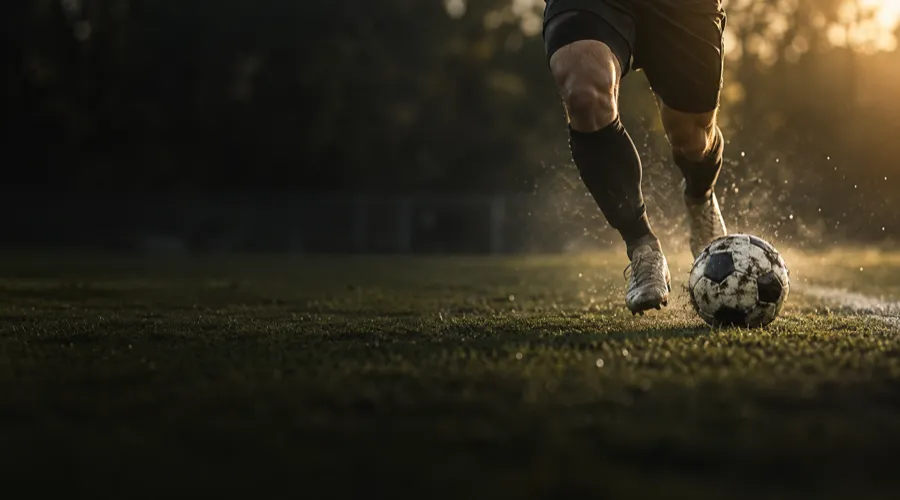
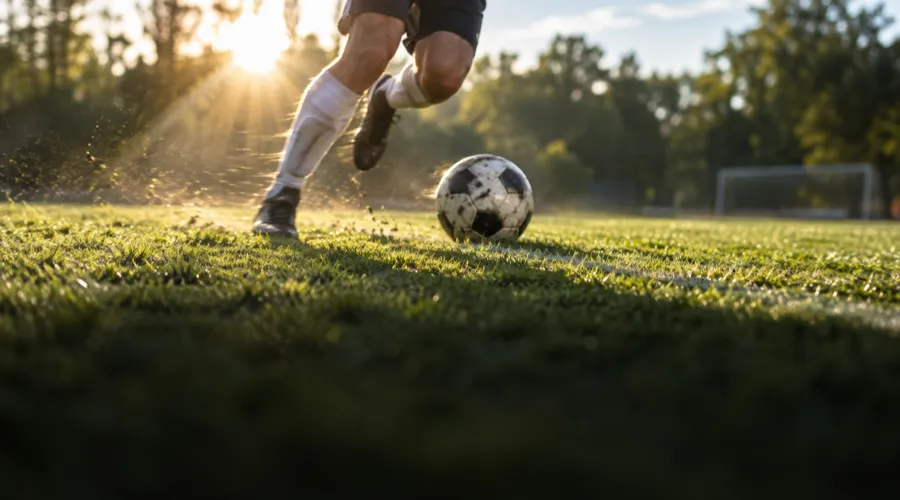
soccer: the last two covers, and a scrim that holds the title up on sunlight
attacking and goalkeeping were the two left behind by the sunlight reshoot —
the first was never regenerated, the second came back as a field of cones with
no keeper in it. Both are now the same morning as the other seven. The
goalkeeping prompt was what failed: it asked for the goal net to fill a "dark
background", which fights a brief whose whole point is a bright one, and the
model resolved the contradiction by dropping the subject. It now names the
gloves and the ball as the only sharp things in the frame and says outright
that the keeper has to be in the picture.

Which exposed the other half of the reshoot. The cover card's scrim is light
at the top and heavy at the bottom, because the covers used to be dark exactly
where the text sits. They are not any more: the drill's name is at y=12, and
on a sunlit cover it lands on bright sky. Measured across the nine, white on
the worst of them was 3.0:1. The top stop goes 0x1A → 0x59, which buys 4.5:1
back on all nine and still leaves the photograph sunlit; 0x80 starts turning
the picture off.

Two things had to be fixed to photograph any of this on a simulator. The
Podfile pinned pods that declare less than 13.0 to 13.0, left over from before
google_mobile_ads pushed the app to 15.0 — Xcode 26 will not build a simulator
slice for a target that low, so `flutter run` never got as far as the app. And
the home screen cannot be reached from outside the app: the first launch is
[…]

diff --git a/tools/drive/home_shot.dart b/tools/drive/home_shot.dart
@@ -1,0 +1,53 @@
+import 'package:flutter/material.dart';
+import 'package:flutter_test/flutter_test.dart';
+import 'package:integration_test/integration_test.dart';
+import 'package:shared_preferences/shared_preferences.dart';
+import 'package:tactics_board/pages/intro_page.dart';
+import 'package:tactics_board/services/ad_service.dart';
+import 'package:__PACKAGE__/main.dart' as app;
+
+/// Photographs the home screen, which is where the hero and the nine drill
+/// covers actually have to hold up.
+///
+///   WALK=home_shot tools/drive_app.sh soccer <udid>
+///
+/// The two prefs are set in this process on purpose. Writing them into the
+/// simulator's NSUserDefaults from outside does not work: `defaults write`
+/// lands in cfprefsd's cache, the app still reads the snapshot it had, and
+/// the key is gone from the plist again once the app writes anything of its
+/// own. A pref set here is set in the process that reads it.
+///
+/// Leaves <App>/screenshots/sim-home-*.png.
+void main() {
+  final binding = IntegrationTestWidgetsFlutterBinding.ensureInitialized();
+
+  testWidgets('photograph the home screen', (tester) async {
+    final prefs = await SharedPreferences.getInstance();
+    await prefs.setBool('remove_ads_pro', true);
+    await IntroPage.markSeen(); // the intro owns the first launch otherwise
+
+    app.main();
+    // Same latch board_shot needs: the Pro pref is read asynchronously and
+    // the app-open ad fires on its own timer, so without this the shot comes
+    // back as an App Store page.
+    AdService.instance.pushAdSuppression();
+
+    Future<void> settle([int beats = 12]) async {
+      for (var i = 0; i < beats; i++) {
+        await tester.pump(const Duration(milliseconds: 200));
+      }
+    }
+
+    await settle(25);
+    await binding.takeScreenshot('sim-home-top');
+
+    // Down the page: the drill cards carry the covers, and the category grid
+    // and "my boards" sit below the fold on a phone.
+    final scrollable = find.byType(Scrollable).first;
+    for (var i = 1; i <= 3; i++) {
+      await tester.drag(scrollable, const Offset(0, -420));
+      await settle(8);
+      await binding.takeScreenshot('sim-home-$i');
+    }
+  });
+}

diff --git a/tactics_board/lib/pages/sport_home_page.dart b/tactics_board/lib/pages/sport_home_page.dart
@@ -773,14 +773,20 @@ class _TodayRow extends StatelessWidget {
                 children: [
                   if (path != null) ...[
                     Image.asset(path, fit: BoxFit.cover),
-                    // The photograph is already dark along the bottom; this
-                    // only guarantees it, for the day a cover is reshot.
+                    // The bottom of the card was never the problem — the
+                    // covers were shot dark there and the scrim only made it
+                    // certain. The top is: the drill's name sits at y=12, and
+                    // once the covers were reshot into sunlight it landed on
+                    // bright sky. Measured over the nine soccer covers, white
+                    // on the brightest of them came out at 3.0:1. 0x59 buys
+                    // the 4.5:1 back and still leaves the picture sunlit;
+                    // going further starts turning the photograph off.
                     const DecoratedBox(
                       decoration: BoxDecoration(
                         gradient: LinearGradient(
                           begin: Alignment.topCenter,
                           end: Alignment.bottomCenter,
-                          colors: [Color(0x1A000000), Color(0x8C000000), Color(0xE6000000)],
+                          colors: [Color(0x59000000), Color(0x8C000000), Color(0xE6000000)],
                           stops: [0, .45, 1],
                         ),
                       ),
